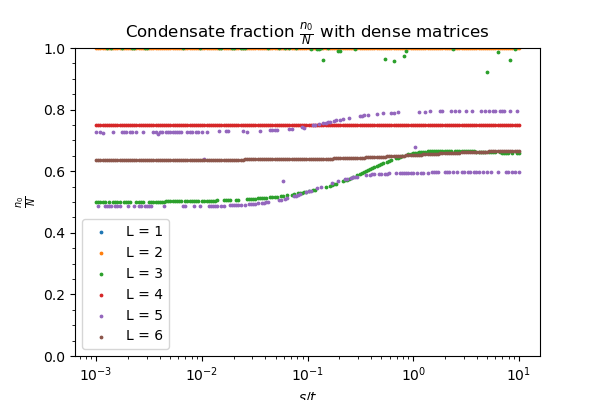
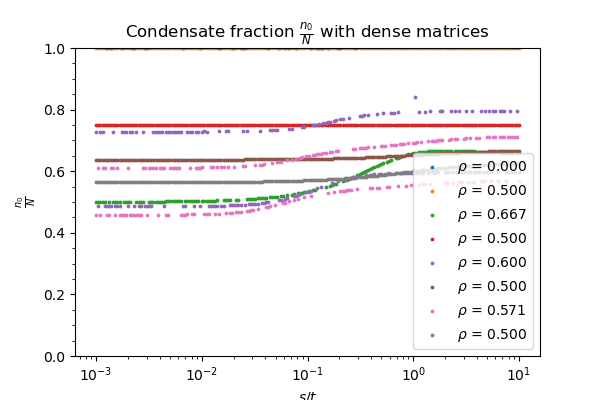
played with condensatefrac_plot

diff --git a/src/main.py b/src/main.py
@@ -108,7 +108,7 @@ class Lattice:
                 evals[i] = np.real(np.sort(np.linalg.eigvals(self.Hamiltonian_manual)))
 
         # exact for the c) plot
-        elif type == "exact"::
+        elif type == "exact":
             # ndarray
             if self.matrix_type == "sparse":
                 evals = []
@@ -234,12 +234,15 @@ class Lattice:
         L_init = self.L
         # prepare plot
         G = Plotter(figsize=(6, 4), nrows=1, ncols=1)
+        N_L_values = []
         # Now loops over all L up to the L that the class was initiated with
         for L in range(1,L_init + 1):
+            #if L % 2 !=0:
             # adjust number of sites
             self.__init__(L, self.matrix_type)
             # storage for the cond frac of this L
             n_0N_frac = []
+            
             # values of t and s for plot
             t = 1
             s_t = np.power(10, np.linspace(start=-3, stop=1, num=200))
@@ -271,9 +274,17 @@ class Lattice:
                         rho[j][l] = np.real(p[0, 0])
 
                 evalues_rho = np.linalg.eigvals(rho)
-                n_0N_frac.append(max(evalues_rho) / np.trace(rho))
-            # add the values for this L to plot
-            G.ax.scatter(s_t, n_0N_frac, s=3, label=f"L = {L}")
+                N = np.round(np.trace(rho))
+                N_L_values.append((N,L))
+                n_0N_frac.append(max(evalues_rho) / N)
+                #n_0_N = max(evalues_rho) / N
+                # add the values for this L to plot
+                colors = [
+                mcolors.TABLEAU_COLORS[str(a)] for a in mcolors.TABLEAU_COLORS
+                ]
+            #G.ax.scatter(s_t, n_0N_frac, s=3, label=r"$\rho$ = $\frac{1}{%.3f}$" % L/N)
+            G.ax.scatter(s_t, n_0N_frac, s=3, label=r"$\rho$ = %.3f" % (N/L))
+        print(np.unique(N_L_values,axis = 0))
 
         # Plotting
         G.ax.set_xscale("log")
@@ -292,7 +303,7 @@ class Lattice:
 
 
 if __name__ == "__main__":
-    L = 6
+    L = 8
     # "dense" uses ndarray, "sparse" uses scipy.sparse.coo_matrix
     test = Lattice(L, "dense")
     # "manual" gives the a) spectrum, anything else gives the c) spectrum
